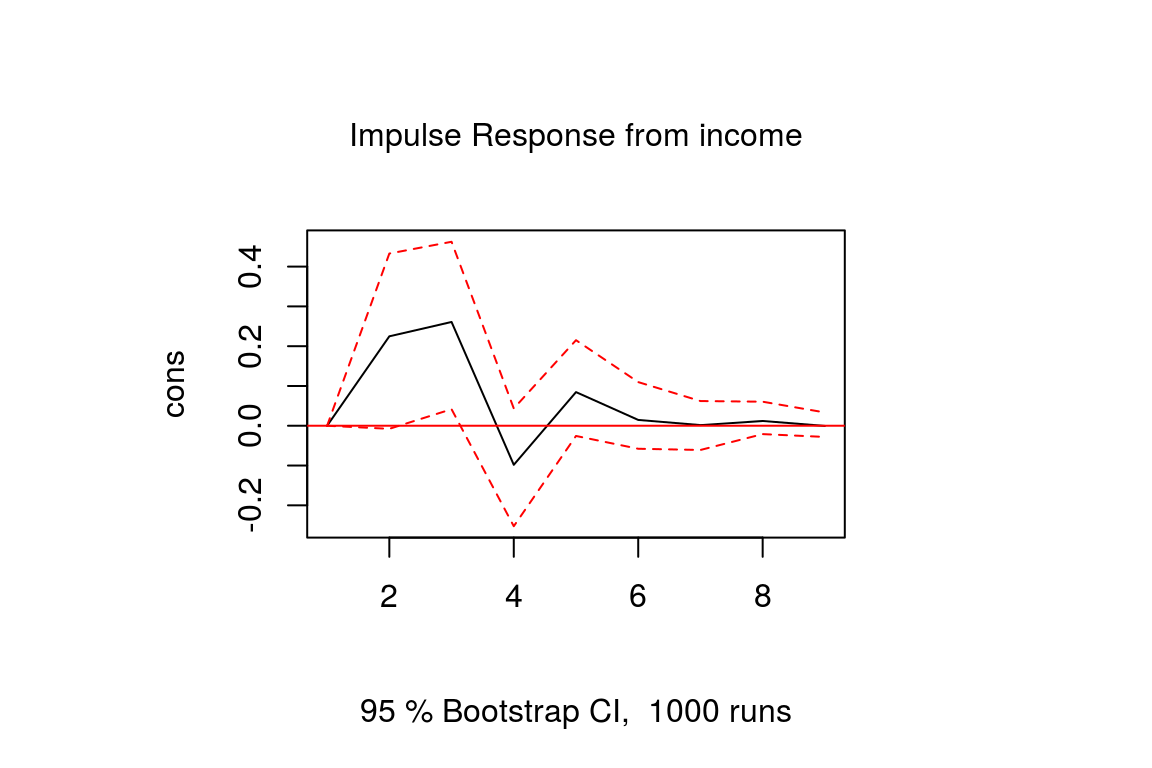
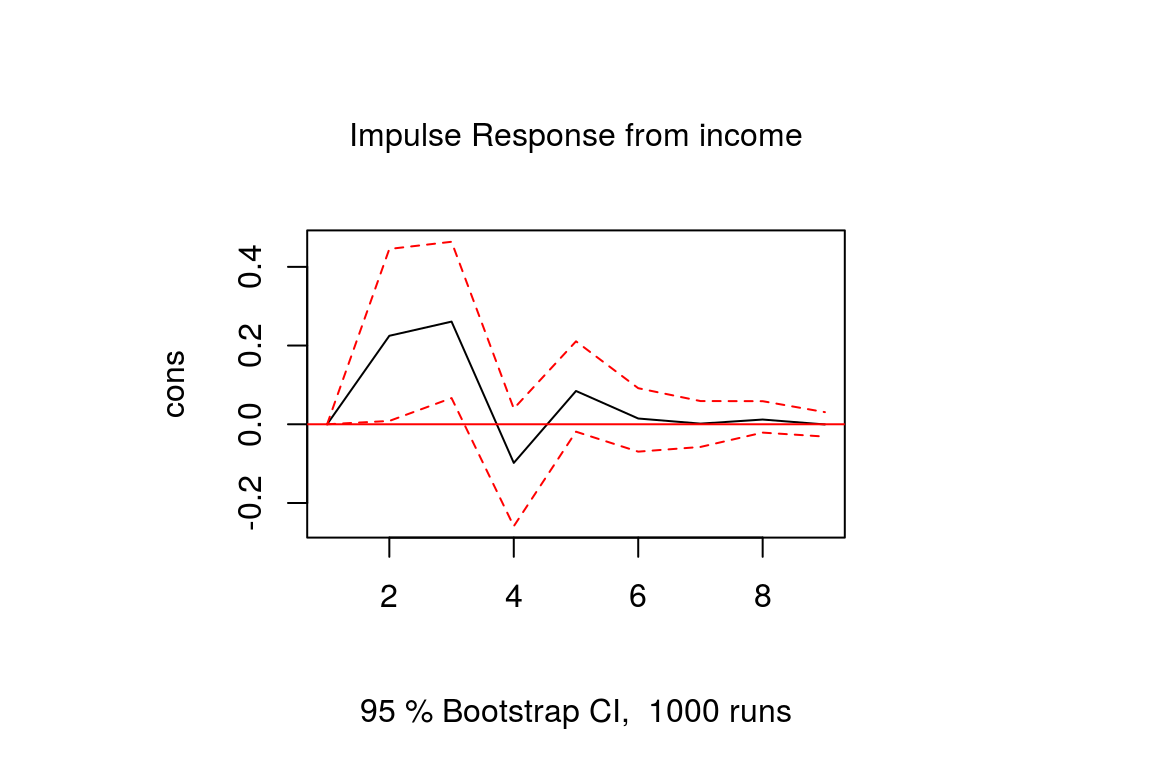
irf_intro

diff --git a/public/timeseries/irf/index.html b/public/timeseries/irf/index.html
@@ -120,7 +120,7 @@ if (!doNotTrack) {
                             
                         </span>
                          - 
-                        <time class="li-article-date">Franz X. Mohr, October 9, 2019
+                        <time class="li-article-date">Franz X. Mohr, March 21, 2020
                         </time>
                     </header>
                     <section>
@@ -167,7 +167,7 @@ summary(model)</code></pre>
 <div id="forecast-error-impulse-response" class="section level3">
 <h3>Forecast error impulse response</h3>
 <p>Since all variables in a VAR model depend on each other, individual coefficient estimates only provide limited information on the reaction of the system to a shock. In order to get a better picture of the model’s dynamic behaviour, <em>impulse responses</em> (IR) are used. The departure point of every impluse reponse function for a linear VAR model is its moving average (MA) representation, which is also the forecast error impulse response (FEIR) function. Mathematically, the FEIR <span class="math inline">\(\Phi_i\)</span> for the <span class="math inline">\(i\)</span>th period after the shock is obtained by
-<span class="math display">\[\Phi_i = \sum_{j = 1}^{i} \Phi_{j-1} A_j, \ \  i = 1, 2, ...\]</span>
+<span class="math display">\[\Phi_i = \sum_{j = 1}^{i} \Phi_{i - j} A_j, \ \  i = 1, 2, ...\]</span>
 with <span class="math inline">\(\Phi_0 = I_{K}\)</span> and <span class="math inline">\(A_j = 0 \text{ for } j&gt;p\)</span>, where <span class="math inline">\(K\)</span> is the number of endogenous variables and <span class="math inline">\(p\)</span> is the lag order of the VAR model.</p>
 <p>In R the <code>irf</code> function of the <code>vars</code> package can be used to obtain forecast error impulse responses. The following code calculates and plots the estimated response of consumption to a forecast error impulse in income with bootstrapped error bands<a href="#fn1" class="footnote-ref" id="fnref1"><sup>1</sup></a>:</p>
 <pre class="r"><code>feir &lt;- irf(model, impulse = &quot;income&quot;, response = &quot;cons&quot;,
@@ -201,7 +201,7 @@ for <span class="math inline">\(i = 0, 1, ...\)</span>. In the following some me
 </div>
 <div id="orthogonal-impulse-responses" class="section level3">
 <h3>Orthogonal impulse responses</h3>
-<p>A common approach to identify the shocks of a VAR model is to use orthogonal impulse respones (OIR). The basic idea is to decompose the variance-covariance matrix so that <span class="math inline">\(\Sigma = PP^{-1}\)</span>, where <span class="math inline">\(P\)</span> is a lower triangular matrix with positve diagonal elements, which is often obtained by a Choleski decomposition. Given the estimated variance-covariance matrix <span class="math inline">\(P\)</span> the decomposition can be obtained by</p>
+<p>A common approach to identify the shocks of a VAR model is to use orthogonal impulse respones (OIR). The basic idea is to decompose the variance-covariance matrix so that <span class="math inline">\(\Sigma = PP^{\prime}\)</span>, where <span class="math inline">\(P\)</span> is a lower triangular matrix with positve diagonal elements, which is often obtained by a Choleski decomposition. Given the estimated variance-covariance matrix <span class="math inline">\(P\)</span> the decomposition can be obtained by</p>
 <pre class="r"><code>t(chol(model_summary$covres))</code></pre>
 <pre><code>##             invest      income        cons
 ## invest 0.046147903 0.000000000 0.000000000

diff --git a/content/timeseries/irf.html b/content/timeseries/irf.html
@@ -1,7 +1,7 @@
 ---
 title: "An Introduction to Impulse Response Analysis of VAR Models"
 author: "Franz X. Mohr"
-date: "2019-10-09"
+date: "2020-03-21"
 tags:
   - r
   - irf
@@ -53,7 +53,7 @@ summary(model)</code></pre>
 <div id="forecast-error-impulse-response" class="section level3">
 <h3>Forecast error impulse response</h3>
 <p>Since all variables in a VAR model depend on each other, individual coefficient estimates only provide limited information on the reaction of the system to a shock. In order to get a better picture of the model’s dynamic behaviour, <em>impulse responses</em> (IR) are used. The departure point of every impluse reponse function for a linear VAR model is its moving average (MA) representation, which is also the forecast error impulse response (FEIR) function. Mathematically, the FEIR <span class="math inline">\(\Phi_i\)</span> for the <span class="math inline">\(i\)</span>th period after the shock is obtained by
-<span class="math display">\[\Phi_i = \sum_{j = 1}^{i} \Phi_{j-1} A_j, \ \  i = 1, 2, ...\]</span>
+<span class="math display">\[\Phi_i = \sum_{j = 1}^{i} \Phi_{i - j} A_j, \ \  i = 1, 2, ...\]</span>
 with <span class="math inline">\(\Phi_0 = I_{K}\)</span> and <span class="math inline">\(A_j = 0 \text{ for } j&gt;p\)</span>, where <span class="math inline">\(K\)</span> is the number of endogenous variables and <span class="math inline">\(p\)</span> is the lag order of the VAR model.</p>
 <p>In R the <code>irf</code> function of the <code>vars</code> package can be used to obtain forecast error impulse responses. The following code calculates and plots the estimated response of consumption to a forecast error impulse in income with bootstrapped error bands<a href="#fn1" class="footnote-ref" id="fnref1"><sup>1</sup></a>:</p>
 <pre class="r"><code>feir &lt;- irf(model, impulse = &quot;income&quot;, response = &quot;cons&quot;,
@@ -87,7 +87,7 @@ for <span class="math inline">\(i = 0, 1, ...\)</span>. In the following some me
 </div>
 <div id="orthogonal-impulse-responses" class="section level3">
 <h3>Orthogonal impulse responses</h3>
-<p>A common approach to identify the shocks of a VAR model is to use orthogonal impulse respones (OIR). The basic idea is to decompose the variance-covariance matrix so that <span class="math inline">\(\Sigma = PP^{-1}\)</span>, where <span class="math inline">\(P\)</span> is a lower triangular matrix with positve diagonal elements, which is often obtained by a Choleski decomposition. Given the estimated variance-covariance matrix <span class="math inline">\(P\)</span> the decomposition can be obtained by</p>
+<p>A common approach to identify the shocks of a VAR model is to use orthogonal impulse respones (OIR). The basic idea is to decompose the variance-covariance matrix so that <span class="math inline">\(\Sigma = PP^{\prime}\)</span>, where <span class="math inline">\(P\)</span> is a lower triangular matrix with positve diagonal elements, which is often obtained by a Choleski decomposition. Given the estimated variance-covariance matrix <span class="math inline">\(P\)</span> the decomposition can be obtained by</p>
 <pre class="r"><code>t(chol(model_summary$covres))</code></pre>
 <pre><code>##             invest      income        cons
 ## invest 0.046147903 0.000000000 0.000000000

diff --git a/public/tags/irf/index.html b/public/tags/irf/index.html
@@ -79,7 +79,7 @@
                 <ul class="li-article-list">
                     
                         <li>
-                            <time class="li-article-date">October, 9, 2019</time>
+                            <time class="li-article-date">March, 21, 2020</time>
                             <h4><a href="https://www.r-econometrics.com/timeseries/irf/">An Introduction to Impulse Response Analysis of VAR Models</a></h4>
                             Impulse response analysis is an important step in econometric analyes, which employ vector autoregressive models. Their main purpose is to describe the evolution of a model’s variables in reaction to a shock in one or more variables. This feature allows to trace the transmission of a single shock within an otherwise noisy system of equations and, thus, makes them very useful tools in the assessment of economic policies. This post provides an introduction to the concept and interpretation of impulse response functions as they are commonly used in the VAR literature and provides code for their calculation in R.
                         </li>

diff --git a/public/tags/r/index.html b/public/tags/r/index.html
@@ -79,7 +79,7 @@
                 <ul class="li-article-list">
                     
                         <li>
-                            <time class="li-article-date">October, 9, 2019</time>
+                            <time class="li-article-date">March, 21, 2020</time>
                             <h4><a href="https://www.r-econometrics.com/timeseries/irf/">An Introduction to Impulse Response Analysis of VAR Models</a></h4>
                             Impulse response analysis is an important step in econometric analyes, which employ vector autoregressive models. Their main purpose is to describe the evolution of a model’s variables in reaction to a shock in one or more variables. This feature allows to trace the transmission of a single shock within an otherwise noisy system of equations and, thus, makes them very useful tools in the assessment of economic policies. This post provides an introduction to the concept and interpretation of impulse response functions as they are commonly used in the VAR literature and provides code for their calculation in R.
                         </li>

diff --git a/public/tags/var/index.html b/public/tags/var/index.html
@@ -79,7 +79,7 @@
                 <ul class="li-article-list">
                     
                         <li>
-                            <time class="li-article-date">October, 9, 2019</time>
+                            <time class="li-article-date">March, 21, 2020</time>
                             <h4><a href="https://www.r-econometrics.com/timeseries/irf/">An Introduction to Impulse Response Analysis of VAR Models</a></h4>
                             Impulse response analysis is an important step in econometric analyes, which employ vector autoregressive models. Their main purpose is to describe the evolution of a model’s variables in reaction to a shock in one or more variables. This feature allows to trace the transmission of a single shock within an otherwise noisy system of equations and, thus, makes them very useful tools in the assessment of economic policies. This post provides an introduction to the concept and interpretation of impulse response functions as they are commonly used in the VAR literature and provides code for their calculation in R.
                         </li>

diff --git a/public/tags/vars/index.html b/public/tags/vars/index.html
@@ -79,7 +79,7 @@
                 <ul class="li-article-list">
                     
                         <li>
-                            <time class="li-article-date">October, 9, 2019</time>
+                            <time class="li-article-date">March, 21, 2020</time>
                             <h4><a href="https://www.r-econometrics.com/timeseries/irf/">An Introduction to Impulse Response Analysis of VAR Models</a></h4>
                             Impulse response analysis is an important step in econometric analyes, which employ vector autoregressive models. Their main purpose is to describe the evolution of a model’s variables in reaction to a shock in one or more variables. This feature allows to trace the transmission of a single shock within an otherwise noisy system of equations and, thus, makes them very useful tools in the assessment of economic policies. This post provides an introduction to the concept and interpretation of impulse response functions as they are commonly used in the VAR literature and provides code for their calculation in R.
                         </li>

diff --git a/public/tags/vector-autoregression/index.html b/public/tags/vector-autoregression/index.html
@@ -79,7 +79,7 @@
                 <ul class="li-article-list">
                     
                         <li>
-                            <time class="li-article-date">October, 9, 2019</time>
+                            <time class="li-article-date">March, 21, 2020</time>
                             <h4><a href="https://www.r-econometrics.com/timeseries/irf/">An Introduction to Impulse Response Analysis of VAR Models</a></h4>
                             Impulse response analysis is an important step in econometric analyes, which employ vector autoregressive models. Their main purpose is to describe the evolution of a model’s variables in reaction to a shock in one or more variables. This feature allows to trace the transmission of a single shock within an otherwise noisy system of equations and, thus, makes them very useful tools in the assessment of economic policies. This post provides an introduction to the concept and interpretation of impulse response functions as they are commonly used in the VAR literature and provides code for their calculation in R.
                         </li>

diff --git a/public/timeseries/index.html b/public/timeseries/index.html
@@ -79,7 +79,7 @@
                 <ul class="li-article-list">
                     
                         <li>
-                            <time class="li-article-date">October, 9, 2019</time>
+                            <time class="li-article-date">March, 21, 2020</time>
                             <h4><a href="https://www.r-econometrics.com/timeseries/irf/">An Introduction to Impulse Response Analysis of VAR Models</a></h4>
                             Impulse response analysis is an important step in econometric analyes, which employ vector autoregressive models. Their main purpose is to describe the evolution of a model’s variables in reaction to a shock in one or more variables. This feature allows to trace the transmission of a single shock within an otherwise noisy system of equations and, thus, makes them very useful tools in the assessment of economic policies. This post provides an introduction to the concept and interpretation of impulse response functions as they are commonly used in the VAR literature and provides code for their calculation in R.
                         </li>

diff --git a/public/index.html b/public/index.html
@@ -15,7 +15,7 @@ if (!doNotTrack) {
 <!DOCTYPE html>
 <html xmlns="//www.w3.org/1999/xhtml" xml:lang="en" lang="en-us">
     <head>
-	<meta name="generator" content="Hugo 0.65.3" />
+	<meta name="generator" content="Hugo 0.68.0" />
         
         <meta http-equiv="content-type" content="text/html; charset=utf-8" />
         <meta name="viewport" content="width=device-width, initial-scale=1.0, maximum-scale=1" />
